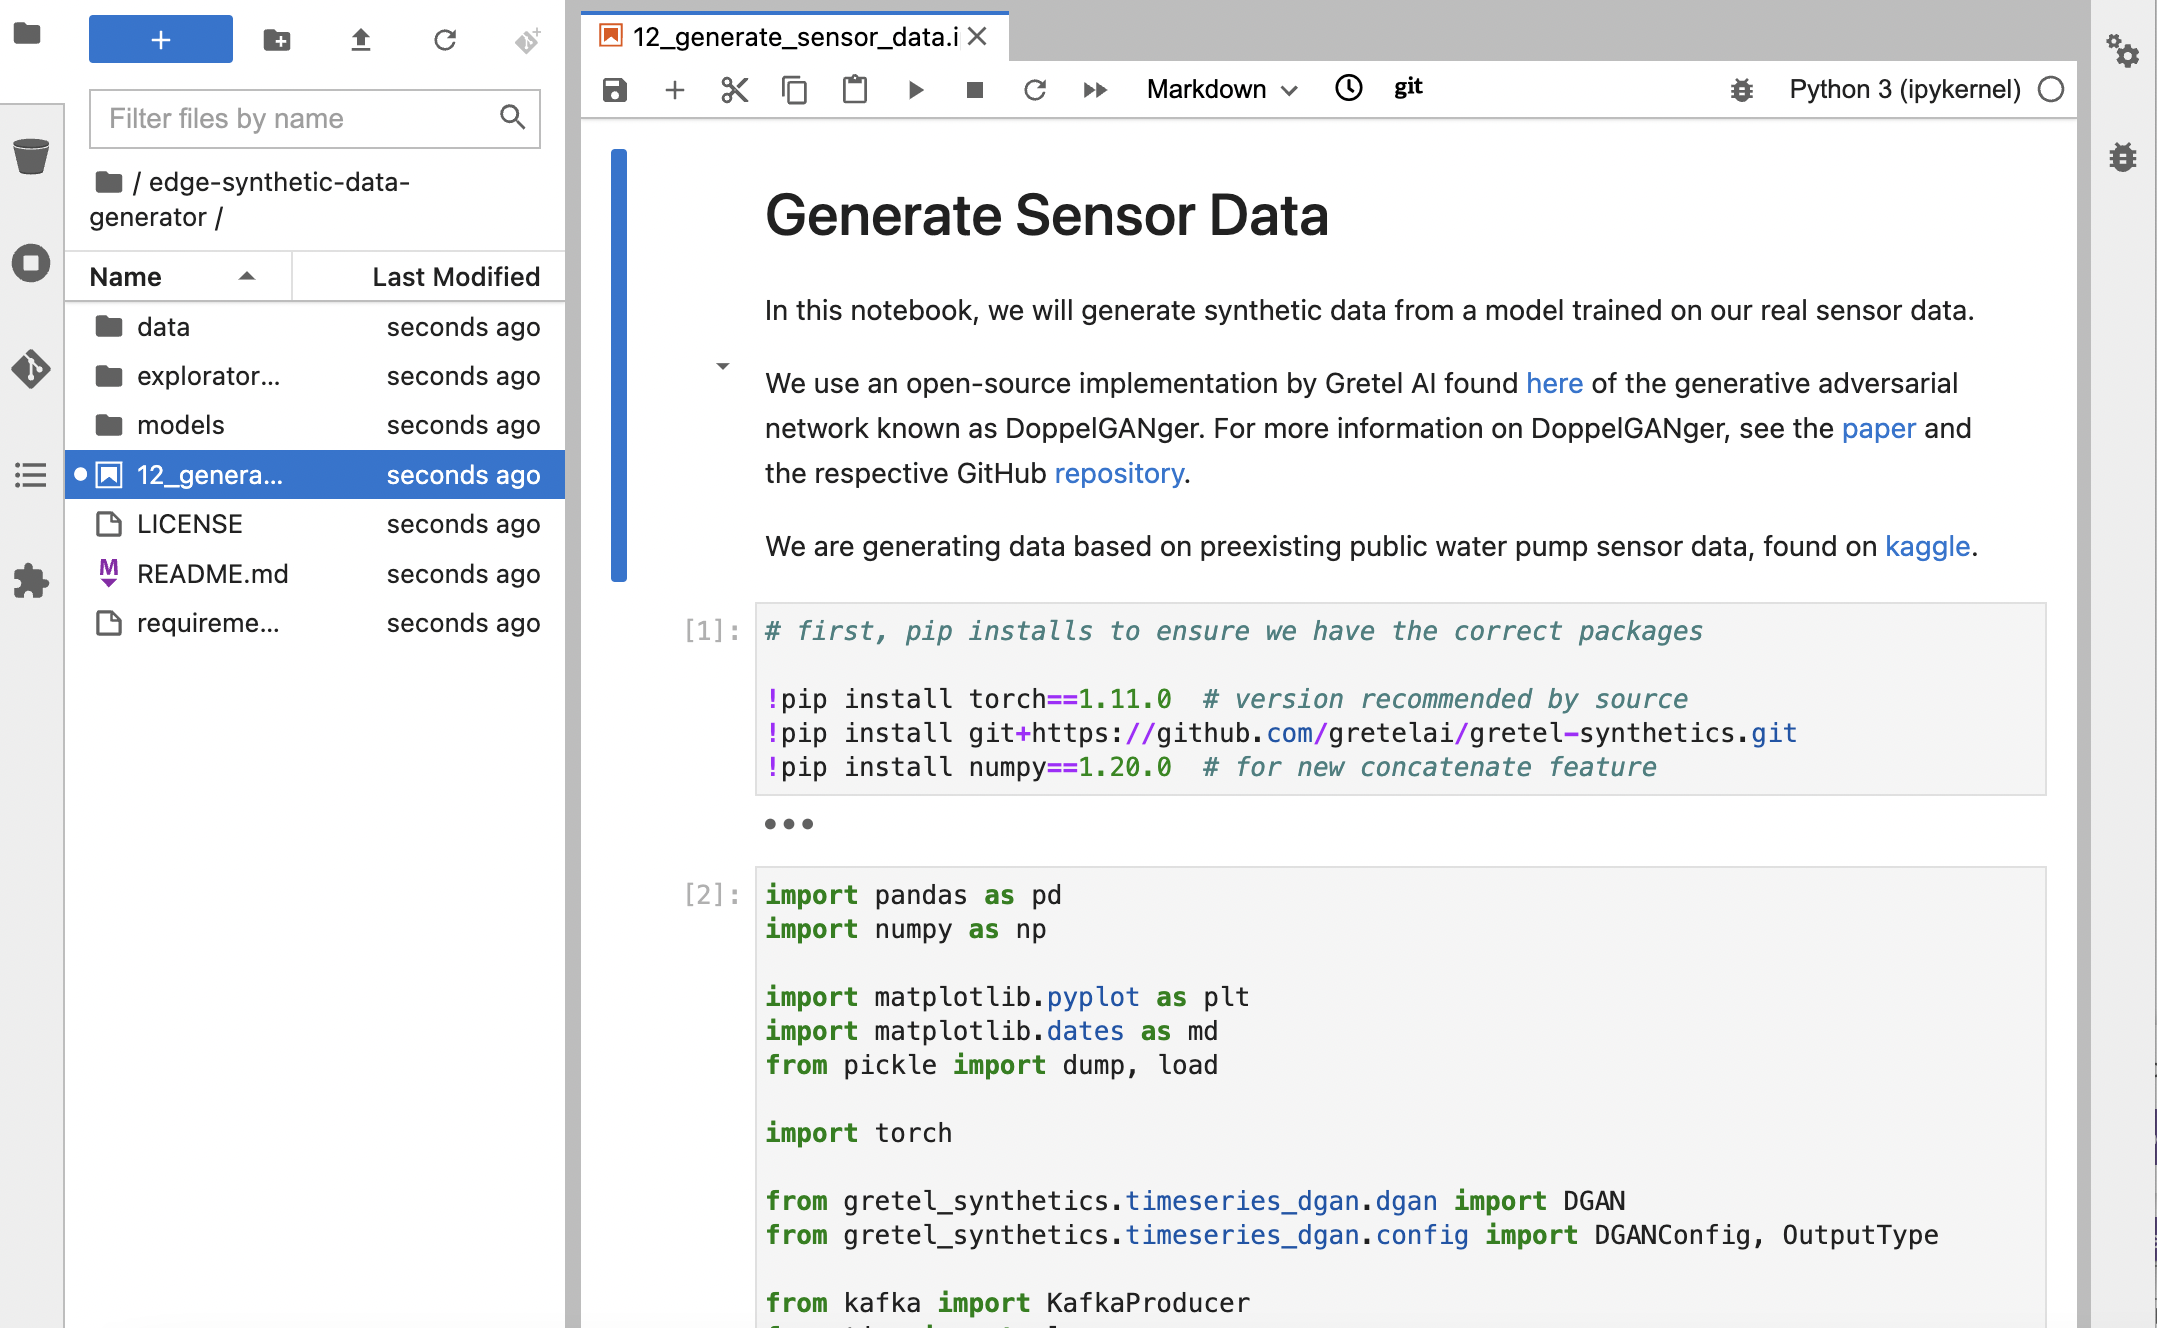
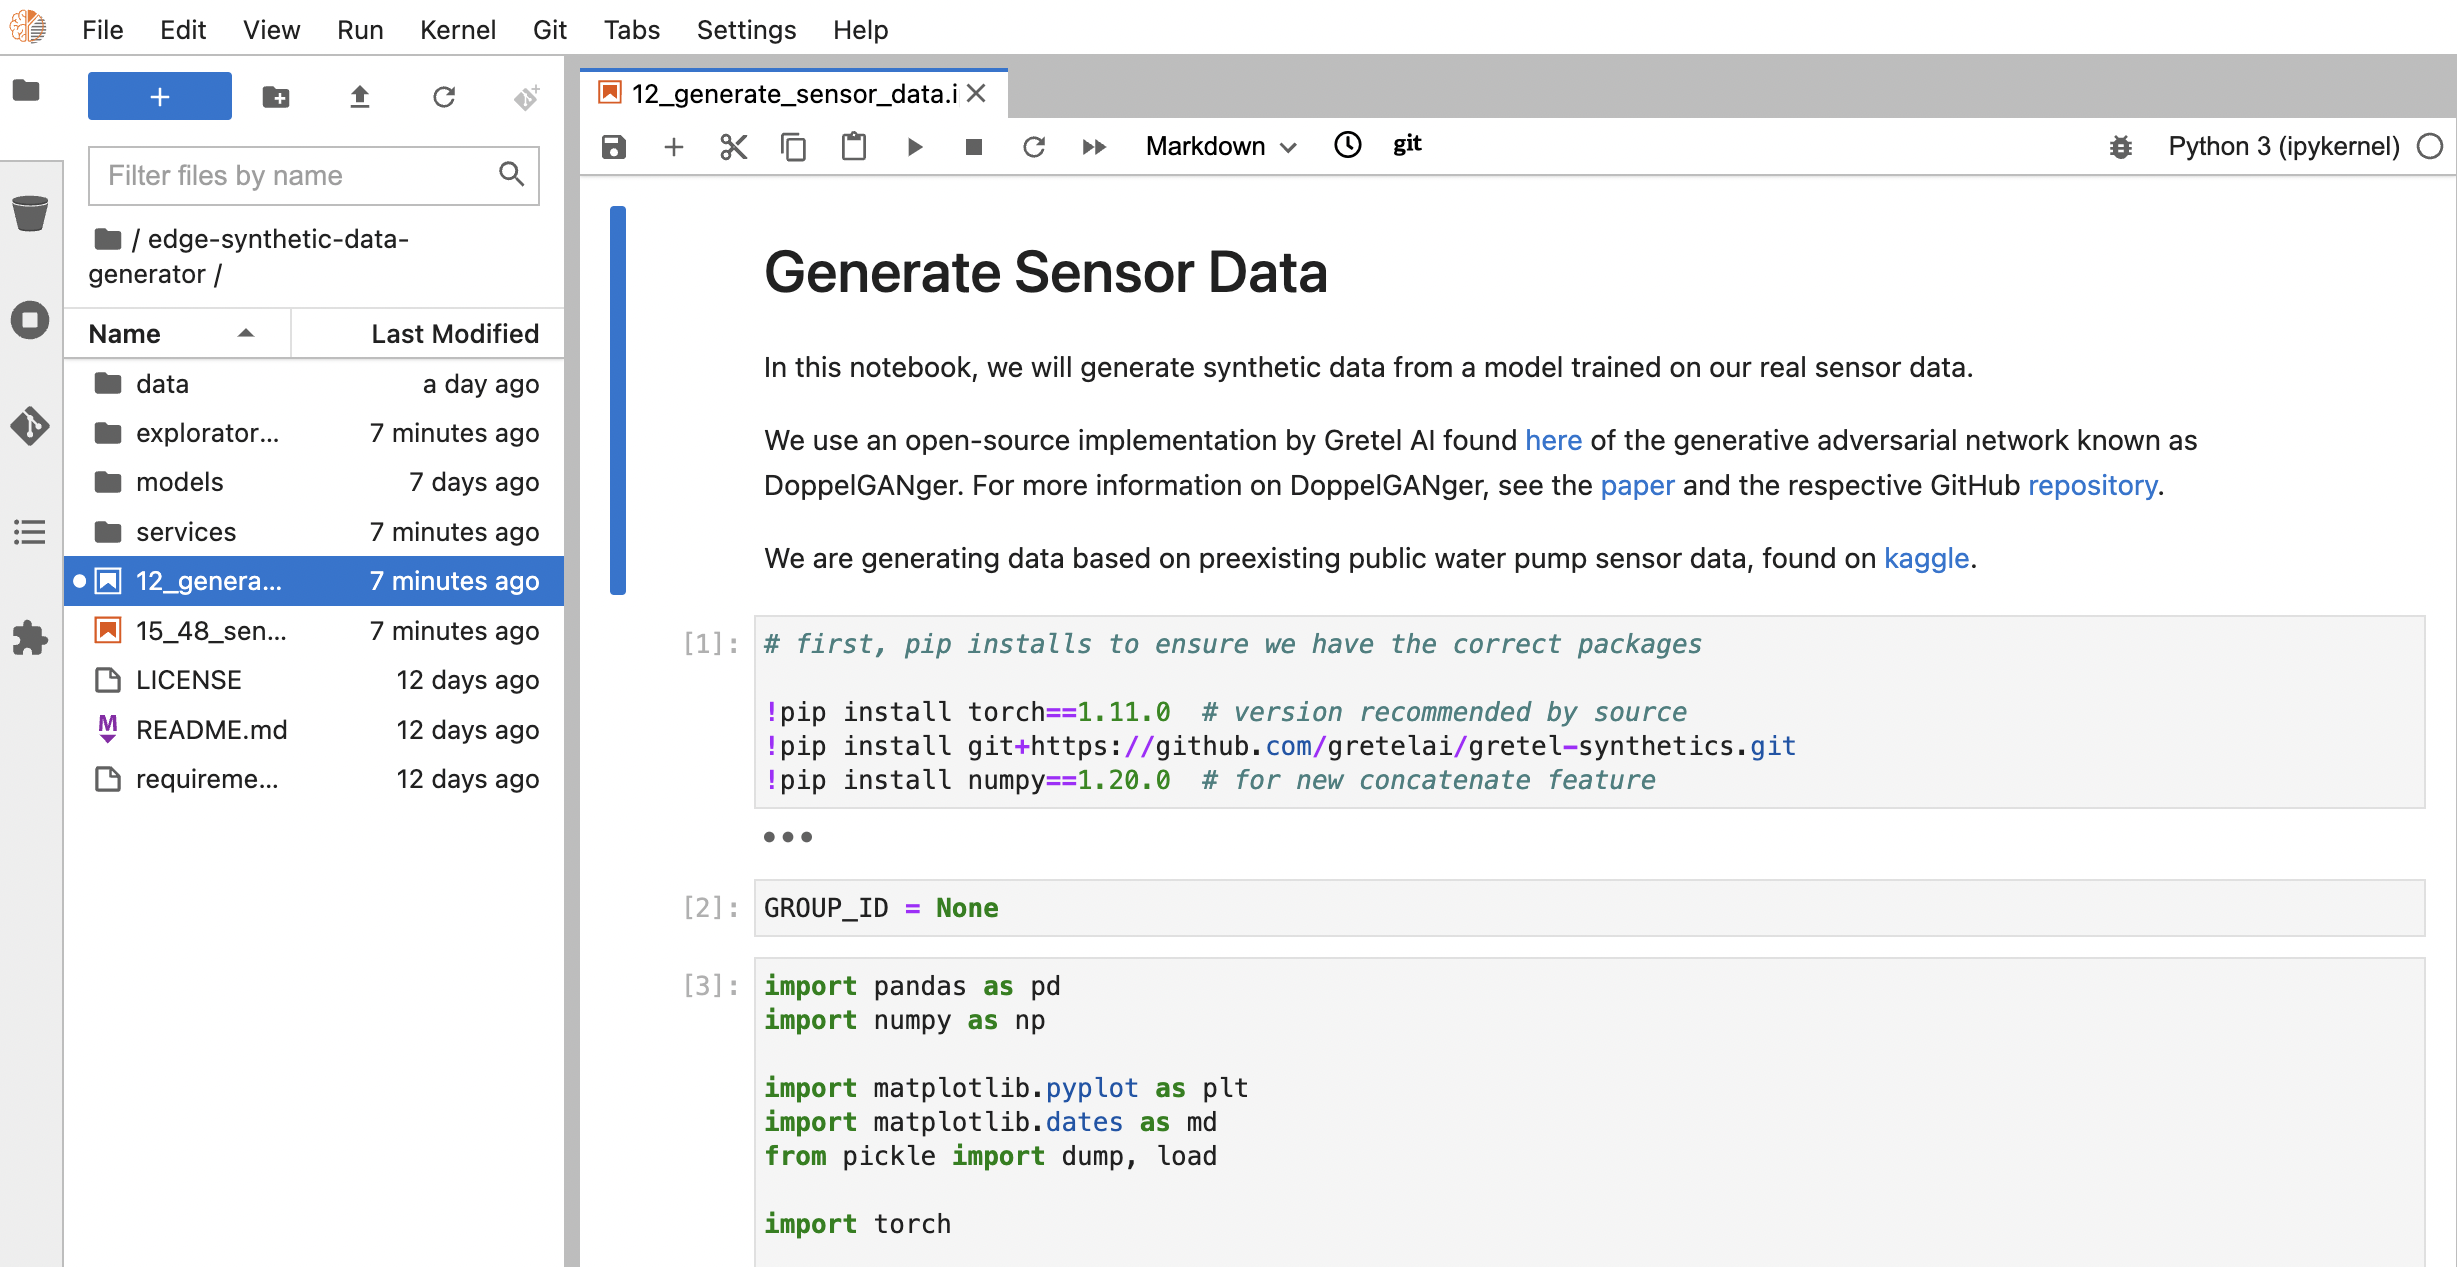
Update workshop instructions to include GROUP_ID

Changed region(s): [[0.0, 0.0, 1.0, 1.0]]

diff --git a/workshop/instructions.md b/workshop/instructions.md
@@ -38,7 +38,7 @@
 
     ![](/workshop/images/jupyterhub_nb.png)
 
-7. Click on "Start Server"
+7. Click on **Start Server**
 
 ## Git Clone the Edge Synthetic Generator Project 
 1. Click on the Git icon on the left of your JupyterHub notebook. 
@@ -60,13 +60,20 @@
 
     ![](/workshop/images/generate_sensor_data.png)
 
-3.  Run cells 1-6 by selecting each one and clicking the run button. 
+3.  Run the first cell to install the required packages for this workshop by selecting it and clicking on the run button.
 
     ![](/workshop/images/run_cells.png)
 
+4. Next, in the following cell, replace **None** with the GROUP_ID number provided to you and run it.
+
+    ![](/workshop/images/group_id.png)
+
+5. Afterwards, select and run cells 3-7 to generate synthetic data from a pre-trained model and plot some slices of it.
+
+
 ## Select Slice
 
-1. Once you run the first 6 cells and reach the section titled **Selecting your slice**, enter in your slice number in the following cell. For example, if your slice number is 13, your code should resemble the following:
+1. Once you run the first 7 cells and reach the section titled **Selecting your slice**, enter in your slice number in the following cell. For example, if your slice number is 13, your code should resemble the following:
 
     ![](/workshop/images/select_slice.png)
 
